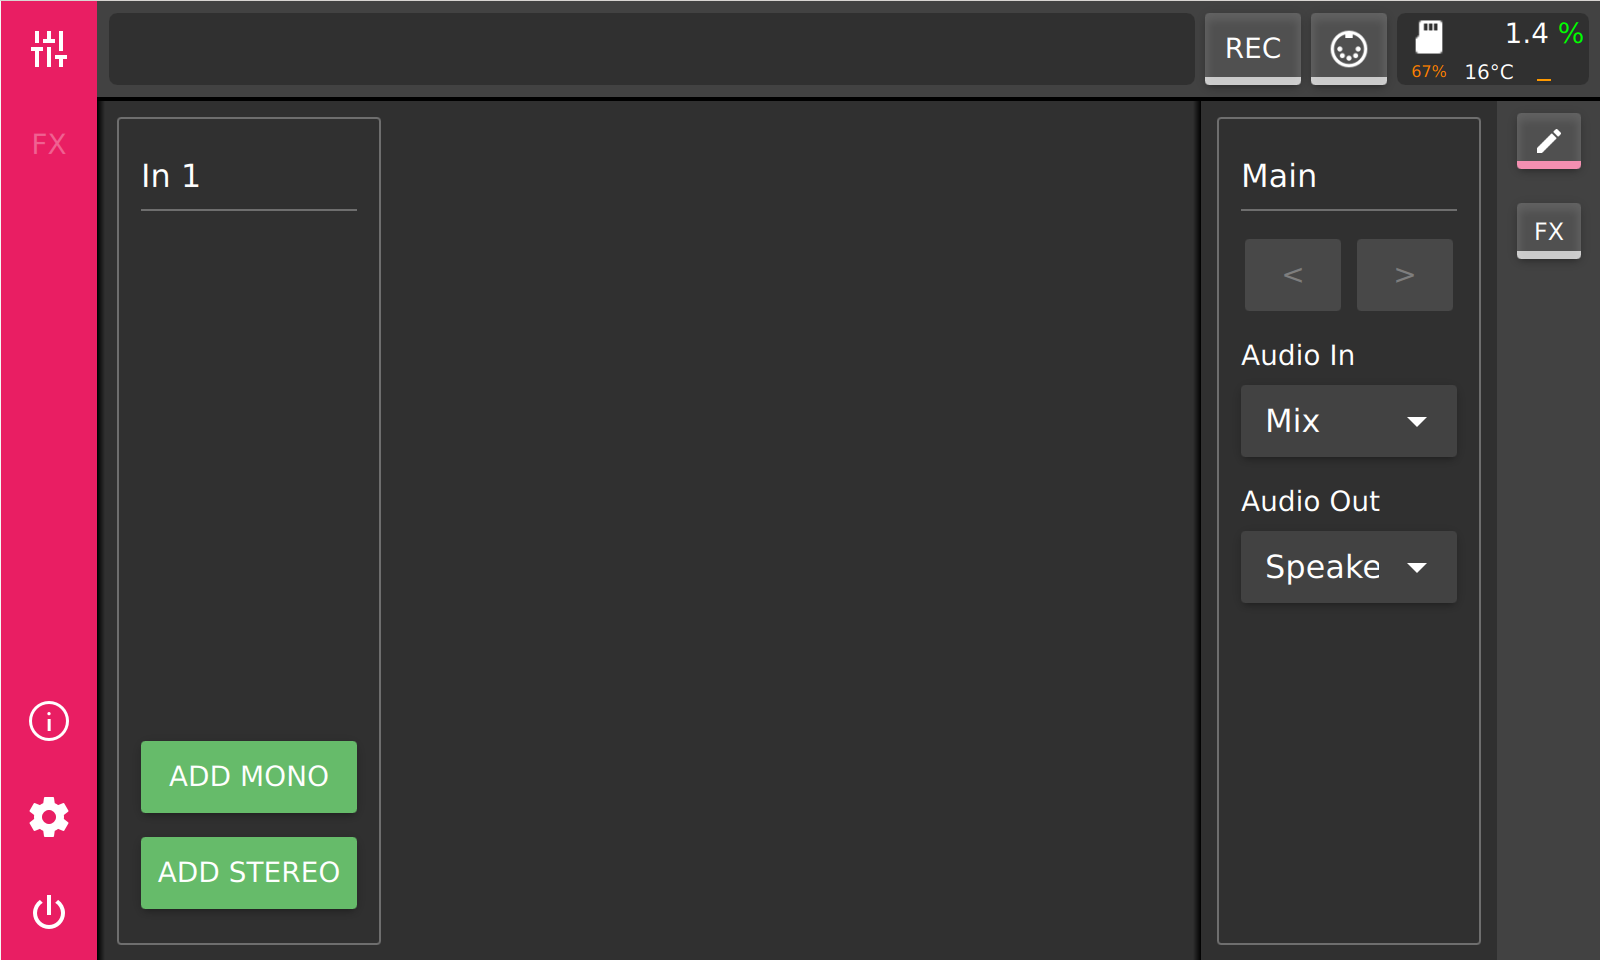
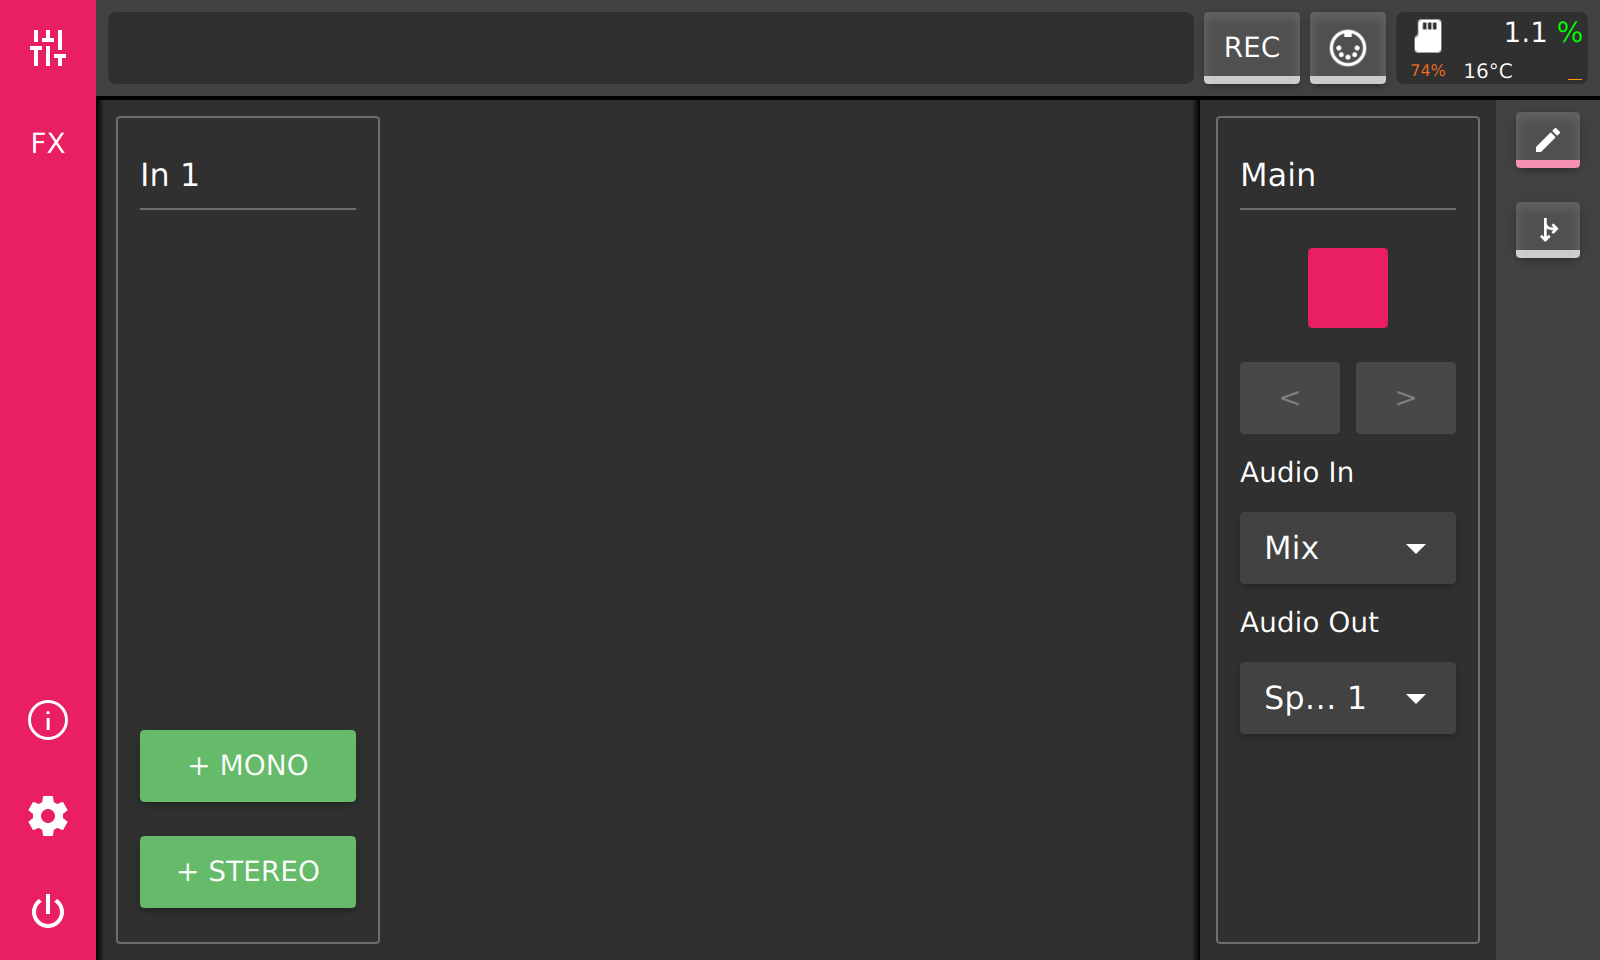
Update screenshots to v0.10.0

diff --git a/source/tutorial.rst b/source/tutorial.rst
@@ -86,7 +86,7 @@ belong to same mixing group if they have same output destination. 'M' will mute 
    :align: center
 
 Every channel allows modification of the audio signal by audio effects. Those can be inserted when the mixer is switched to 'effects' view.
-Switching to 'effects' view is done by pressing the 'FX' button on view toolbar, to the right of the mixer.
+Switching to 'effects' view is done by pressing the 'FX' button on the main toolbar, to the right of the mixer.
 
 .. image:: images/mixer_fx_view_initial.png
    :align: center
